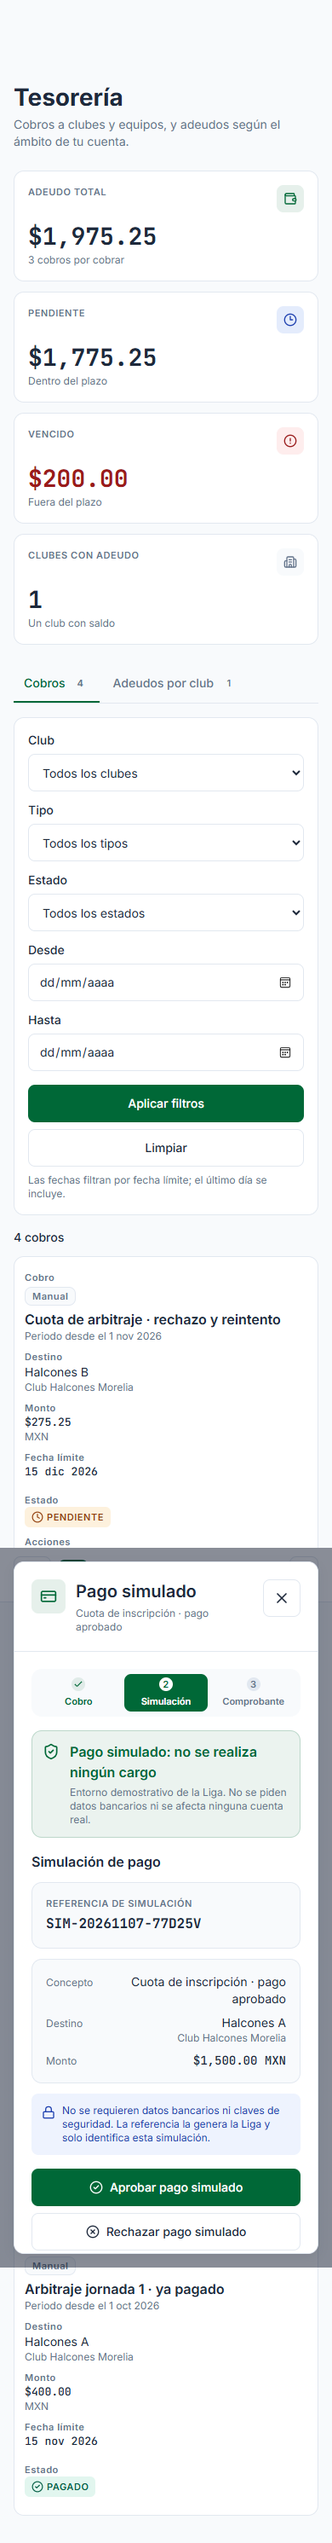
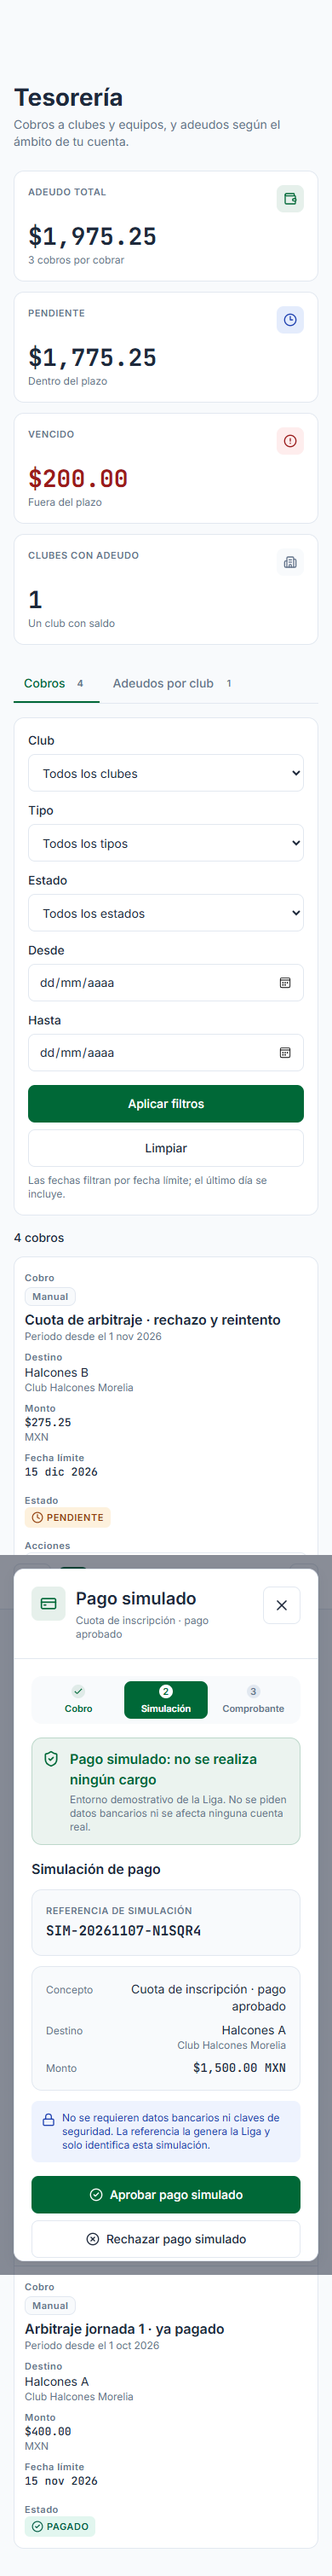
test(m13): reejecutar aceptación del pago simulado sobre develop (H-30.3)
Actualiza la prueba tras fusionar develop 9c6a62f: capturas y evidencias de CA-1 a CA-3 regeneradas, CA-3 incluye el aviso «Vencido: comunícate con Tesorería» de #93 y la observación 2 se reescribe con los flujos de #90 y #92. Verificación: backend 1100 unitarias y 186 de integración; frontend 500 pruebas.

Refs: H-30, RF-138, VAL-028, RNF-004

diff --git a/docs/pruebas/aceptacion/H-30-pago-simulado.md b/docs/pruebas/aceptacion/H-30-pago-simulado.md
@@ -5,9 +5,9 @@
 | Historia | H-30 · subtarea H-30.3 |
 | Requisitos | RF-138, VAL-028, RNF-004, DEC-37, ADR-0012 |
 | Pantallas | F-34 (flujo móvil de pago simulado, abierto desde la tabla de cobros de F-33) |
-| Versión probada | `develop` en `2b407ff`, con las migraciones `20261020090000`, `20261022143000`, `20261027140000`, `20261103100000` y `20261106160000` |
+| Versión probada | `develop` en `9c6a62f`, fusionado en la rama de la prueba en `69b302d`, con las migraciones `20261020090000`, `20261022143000`, `20261027140000`, `20261103100000` y `20261106160000` |
 | Fecha | 2026-11-07 |
-| Ejecutó | Agente de IA (OpenCode) en el entorno local del equipo |
+| Ejecutó | DeepSeek V4.1 Flash Free (OpenCode) en el entorno local del equipo |
 | Resultado global | **Aprobado (4 de 4 criterios)** |
 
 ## 1. Entorno
@@ -52,11 +52,13 @@ Cobros, todos `tipo = MANUAL`:
 | 4 | Halcones | Halcones A | Arbitraje jornada 2 · vencido | 200.00 | VENCIDO (límite 31 oct 2026) | SQL |
 | 5 | Riviera | Riviera F.C. | Cuota de inscripción · club ajeno | 125.00 | PENDIENTE | SQL |
 
-Los cobros 3 y 4 se sembraron por SQL porque hoy ningún flujo produce `PAGADO` por pago externo
-(H-31) ni `VENCIDO` (vencimiento programado, B-31); los triggers `tg_pagos_validar` y
-`tg_cobros_estado` siguieron activos. El cobro 3 tiene un pago `EFECTIVO` de la semilla y el cobro
-5 pertenece a otro club, por lo que no aparece en la pantalla de la Directiva. Los pagos
-`EN_LINEA_SIMULADO` que genera esta prueba son únicamente los de los cobros 1 y 2.
+Los cobros 3 y 4 se sembraron por SQL para que CA-3 parta de un estado determinista, aunque
+`develop` ya incluye el pago externo de Tesorería (#90, H-31.2) y el vencimiento programado
+(#92, B-31.1); así la prueba no depende de esperar la tarea diaria ni de registrar antes un pago
+externo. Los triggers `tg_pagos_validar` y `tg_cobros_estado` siguieron activos. El cobro 3 tiene
+un pago `EFECTIVO` de la semilla y el cobro 5 pertenece a otro club, por lo que no aparece en la
+pantalla de la Directiva. Los pagos `EN_LINEA_SIMULADO` que genera esta prueba son únicamente los
+de los cobros 1 y 2.
 
 ## 3. Escenarios
 
@@ -90,14 +92,14 @@ Los cobros 3 y 4 se sembraron por SQL porque hoy ningún flujo produce `PAGADO` 
 - La tabla mostró los cuatro cobros de Halcones y **no** el cobro 5 de Riviera. El cobro 1 ofrecía
   «Pagar en línea (simulado)».
 - Paso 1: «Cobro a pagar», Club Halcones Morelia · Halcones A, «$1,500.00 MXN».
-- Paso 2: referencia **`SIM-20261107-77D25V`**; la petición
+- Paso 2: referencia **`SIM-20261107-N1SQR4`**; la petición
   `POST /api/v1/cobros/c0b00000-0000-4000-8000-000000000031/intentos-pago` respondió `HTTP 201`
   con `"estado":"PENDIENTE"`.
 - Paso 3: «Pago registrado» y «Comprobante de pago simulado» con la misma referencia; la
   confirmación `{"resultado":"APROBADO"}` respondió `HTTP 200` con `"estado":"APROBADO"` y
-  `"resueltoEn":"2026-11-08T02:41:36.1291707Z"`.
+  `"resueltoEn":"2026-11-08T03:33:16.140269Z"`.
 - Al cerrar, la fila del cobro 1 mostró **Pagado** y **0** botones.
-- Base: `siglim.pagos` con `EN_LINEA_SIMULADO`, `1500.00` y `SIM-20261107-77D25V`; el intento quedó
+- Base: `siglim.pagos` con `EN_LINEA_SIMULADO`, `1500.00` y `SIM-20261107-N1SQR4`; el intento quedó
   `APROBADO`; dos eventos de auditoría `M-13`, el segundo con `monto`, `pagoId`, `cobroId`,
   `resultado: "APROBADO"`, `referencia` y `estadoCobro: "PAGADO"`.
 
@@ -147,15 +149,15 @@ crudas del navegador) y
 
 **Resultado obtenido:** **Aprobado.**
 
-- Primer intento: referencia **`SIM-20261107-D7HKYS`**; la confirmación
+- Primer intento: referencia **`SIM-20261107-VMFWPI`**; la confirmación
   `{"resultado":"RECHAZADO"}` respondió `HTTP 200` con `"estado":"RECHAZADO"`. El comprobante mostró
   «El pago fue rechazado» y «La simulación no generó ningún cargo. El cobro quedó rechazado y puede
   reintentarse.».
 - Al cerrar, la fila mostró **Rechazado** y el botón **Reintentar pago** (1).
 - Reintento: el paso 1 ofreció «Reintentar pago simulado»; el paso 2 generó
-  **`SIM-20261107-0GBPAJ`**, distinta de la rechazada; la aprobación respondió `HTTP 200` y la fila
+  **`SIM-20261107-UIBHHJ`**, distinta de la rechazada; la aprobación respondió `HTTP 200` y la fila
   quedó **Pagado** sin acciones.
-- Base: **3** intentos (`APROBADO` 77D25V, `RECHAZADO` D7HKYS y `APROBADO` 0GBPAJ) y **2** pagos
+- Base: **3** intentos (`APROBADO` N1SQR4, `RECHAZADO` VMFWPI y `APROBADO` UIBHHJ) y **2** pagos
   `EN_LINEA_SIMULADO` (1500.00 y 275.25). La auditoría del rechazo no tiene `monto` ni `pagoId`; la
   del reintento registra `estadoAnterior: "RECHAZADO"` y el nuevo `pagoId`.
 
@@ -190,12 +192,15 @@ crudas del navegador) y
 **Resultado esperado**
 
 - La interfaz muestra **Pagado** y **Vencido** y no ofrece «Pagar en línea» ni «Reintentar pago».
+- El cobro VENCIDO muestra el aviso **«Vencido: comunícate con Tesorería»** (#93, B-31.2) y el
+  cobro PAGADO no lo muestra.
 - La API responde `409` con `codigo: "VAL-028"` y un `detail` que explica el estado del cobro.
 - `siglim.intentos_pago` no tiene filas para los cobros 3 y 4.
 
 **Resultado obtenido:** **Aprobado.**
 
-- La interfaz mostró **Pagado** y **Vencido**, con **0** botones en ambas filas.
+- La interfaz mostró **Pagado** y **Vencido**, con **0** botones en ambas filas. La fila del cobro
+  4 mostró el aviso **«Vencido: comunícate con Tesorería»**; la del cobro 3 no lo mostró.
 - API: los dos `POST` respondieron **`HTTP 409`** con `Content-Type: application/problem+json` y
   `"codigo":"VAL-028"`:
   - Cobro 3: «El cobro está PAGADO; no se puede pagar en línea.».
@@ -220,7 +225,11 @@ crudas del navegador) y
   confirma dos veces», «H-30 criterio 3 · VAL-028: un cobro VENCIDO no se paga en línea, pero sí lo
   registra Tesorería» y «VAL-015 y VAL-024: el Tesorero no paga en línea y la Directiva de otro club
   no ve el cobro».
-- `PantallaTesoreria.test.tsx` · «H-30.2: ofrece pagar solo los cobros pendientes o rechazados».
+- `PantallaTesoreria.test.tsx` · «H-30.2: ofrece pagar solo los cobros pendientes o rechazados» y
+  «B-31.2: con PAGAR sin REGISTRAR, el cobro vencido no se paga en línea y remite a Tesorería».
+- `ModalPagoSimulado.test.tsx` · «B-31.2: un 409 VAL-028 al iniciar muestra el detalle y refresca la
+  tesorería» y «B-31.2: un 409 VAL-028 al confirmar muestra el detalle, refresca y ya no ofrece
+  aprobar ni rechazar».
 
 ### CA-4 · La pantalla muestra «Pago simulado: no se realiza ningún cargo»
 
@@ -252,7 +261,7 @@ Observación 4).
 [`CA2-comprobante-rechazado.png`](evidencias/H-30/CA2-comprobante-rechazado.png),
 [`CA2-modal-reintento-referencia.png`](evidencias/H-30/CA2-modal-reintento-referencia.png),
 [`CA2-comprobante-reintento-aprobado.png`](evidencias/H-30/CA2-comprobante-reintento-aprobado.png) y
-[`resumen-ejecucion.txt`](evidencias/H-30/resumen-ejecucion.txt) (31 comprobaciones, 31 correctas)
+[`resumen-ejecucion.txt`](evidencias/H-30/resumen-ejecucion.txt) (33 comprobaciones, 33 correctas)
 
 **Pruebas automáticas relacionadas**
 
@@ -270,12 +279,12 @@ Observación 4).
 
 Pruebas automáticas de la misma versión:
 
-- Backend: `./mvnw verify` → **BUILD SUCCESS**. Pruebas unitarias y de controlador: **1043/1043**.
-  Pruebas de integración (PostgreSQL real en Testcontainers): **171 ejecutadas, 0 fallos, 0 errores,
+- Backend: `./mvnw verify` → **BUILD SUCCESS**. Pruebas unitarias y de controlador: **1100/1100**.
+  Pruebas de integración (PostgreSQL real en Testcontainers): **186 ejecutadas, 0 fallos, 0 errores,
   1 omitida** (`AlmacenamientoDocumentosAwsIT`, desactivada por defecto: requiere
   `-Dsiglim.s3.pruebaReal=true` y credenciales de AWS). `PagoSimuladoIT`: **8/8**, incluye los
   cuatro escenarios de los criterios 1 a 3 y los de concurrencia, idempotencia, permisos y ámbito.
-- Frontend: `npm run lint` sin hallazgos; `npm test` → **467/467** pruebas en **61** archivos;
+- Frontend: `npm run lint` sin hallazgos; `npm test` → **500/500** pruebas en **62** archivos;
   `npm run build` → **`✓ built`**.
 
 ## 5. Defectos encontrados
@@ -289,21 +298,25 @@ terminan correctamente.
    `tesoreria.pago:PAGAR` a `DIRECTIVA_CLUB` con ámbito de club; el `TESORERO` tiene
    `tesoreria.pago:REGISTRAR` (pago externo de H-31). No es un defecto: el pago en línea y el
    registro en ventanilla son acciones distintas.
-2. **Estados PAGADO y VENCIDO sembrados por SQL.** Ningún flujo produce todavía un cobro `VENCIDO`
-   (vencimiento programado, B-31) ni un `PAGADO` por pago externo (H-31). Para probar VAL-028 se
-   insertaron los cobros 3 y 4 y se cambió su estado con los triggers activos; el cobro 3 tiene un
-   pago `EFECTIVO` de la semilla. Solo los pagos de los cobros 1 y 2 son `EN_LINEA_SIMULADO` de
-   esta corrida.
-3. **La referencia usa la fecha de negocio.** La corrida ocurrió a las 20:41 de `America/Mexico_City`
-   (02:41 UTC del día siguiente) y la referencia generada fue `SIM-20261107-…`, con la fecha local
+2. **Estados PAGADO y VENCIDO sembrados por SQL.** `develop` ya incluye el pago externo de
+   Tesorería (#90, H-31.2) y el vencimiento programado (#92, B-31.1), pero la prueba fija por SQL
+   el estado inicial de los cobros 3 y 4 para que CA-3 sea determinista: no depende de esperar la
+   tarea diaria ni de registrar antes un pago externo. La semilla se aplicó con los triggers
+   `tg_pagos_validar` y `tg_cobros_estado` activos; el cobro 3 tiene un pago `EFECTIVO` y el cobro 4
+   quedó `VENCIDO` con límite 31 oct 2026. Al arrancar, `VencimientoCobrosService` revisó la base y
+   no venció ningún cobro, sin tocar los `PENDIENTE` con límite 15 dic 2026. Solo los pagos de los
+   cobros 1 y 2 son `EN_LINEA_SIMULADO` de esta corrida.
+3. **La referencia usa la fecha de negocio.** La corrida ocurrió a las 21:33 de `America/Mexico_City`
+   (03:33 UTC del día siguiente) y la referencia generada fue `SIM-20261107-…`, con la fecha local
    de la Liga. Es el comportamiento esperado y no afecta el criterio.
 4. **404 del `favicon`.** `frontend/index.html` no declara un `favicon`, así que Edge registra un
    `404` por `/favicon.ico` en la primera carga. No es un error de la aplicación ni de la prueba;
    [`resumen-ejecucion.txt`](evidencias/H-30/resumen-ejecucion.txt) lo cuenta aparte de los errores
    de consola (0).
 5. **La interfaz y la API coinciden en VAL-028.** La tabla oculta la acción para `PAGADO` y
-   `VENCIDO`, pero la prueba también llamó a la API directamente: ambas capas rechazan el pago. La
-   UI no es la única barrera.
+   `VENCIDO` y, desde #93, el `VENCIDO` de la Directiva muestra «Vencido: comunícate con Tesorería».
+   La prueba también llamó a la API directamente: ambas capas rechazan el pago. La UI no es la
+   única barrera.
 6. **Nada se borra.** El intento rechazado de CA-2 se conserva junto con el aprobado del reintento;
    la corrección de estado no elimina historial (RF-044, RN-005).
 7. **La segunda confirmación de un intento ya resuelto** responde `409` y no duplica el pago; se
@@ -312,11 +325,12 @@ terminan correctamente.
 
 ## 7. Conclusión
 
-La historia **H-30 cumple sus cuatro criterios de aceptación** sobre `develop` en `2b407ff` con
+La historia **H-30 cumple sus cuatro criterios de aceptación** sobre `develop` en `9c6a62f` con
 frontend, backend y base de datos reales: un cobro `PENDIENTE` pasa a `PAGADO` con un pago
 `EN_LINEA_SIMULADO` y su auditoría; un rechazo deja el cobro `RECHAZADO` sin pago y el reintento
 genera una referencia nueva y lo deja `PAGADO`; un cobro `PAGADO` o `VENCIDO` no se paga en línea
-(`409 VAL-028`) ni desde la interfaz ni desde la API; y el aviso «Pago simulado: no se realiza
-ningún cargo» aparece en los nueve pasos recorridos. La corrida terminó con 31 comprobaciones
-correctas, 0 fallos y 0 errores de consola de la aplicación. La subtarea **H-30.3 queda terminada**
-y no quedan defectos abiertos para H-30.
+(`409 VAL-028`) ni desde la interfaz ni desde la API; el `VENCIDO` de la Directiva remite a
+Tesorería con el aviso de #93, y el aviso «Pago simulado: no se realiza ningún cargo» aparece en
+los nueve pasos recorridos. La corrida terminó con 33 comprobaciones correctas, 0 fallos y 0
+errores de consola de la aplicación. La subtarea **H-30.3 queda terminada** y no quedan defectos
+abiertos para H-30.
